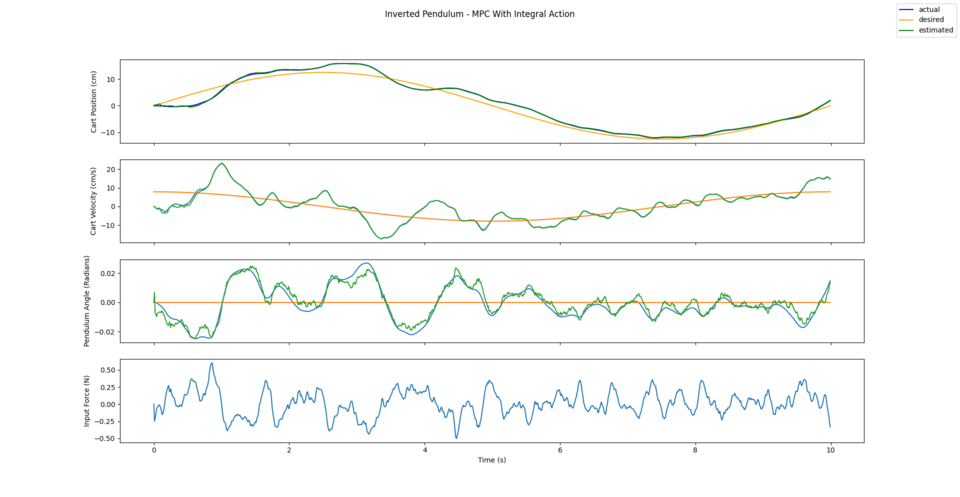
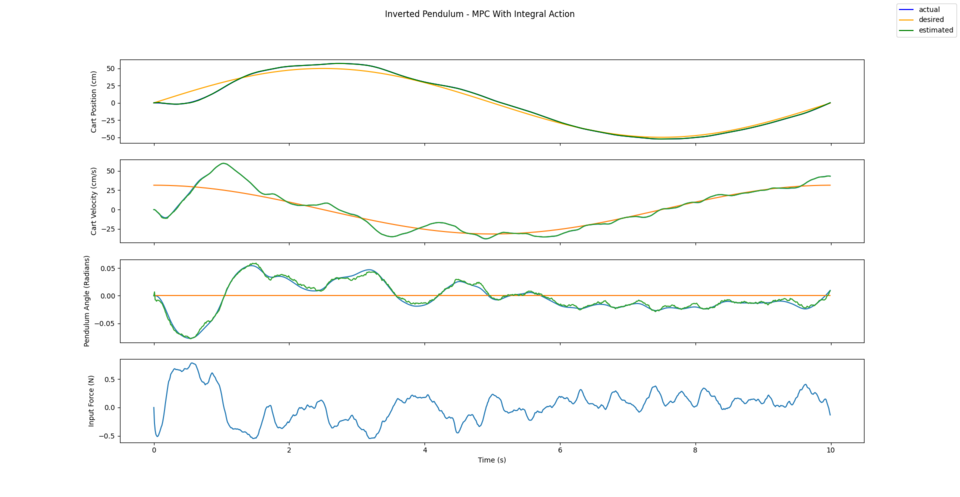
Increase amplitude of reference trajectory in Inverted Pendulum simulation. Also increase weight on input matrix. Update simulation plots.

diff --git a/InvertedPendulumSimulation.py b/InvertedPendulumSimulation.py
@@ -64,7 +64,7 @@ Q[2][2] = 10
 Q[3][3] = 1
 Q[4][4] = 0
 
-R = np.identity(1)
+R = np.identity(1)*10
 
 # initial state covariance estimate for EKF
 P0 = np.identity(4) * 0.1
@@ -84,8 +84,8 @@ u_actual = np.empty((1, sim_length - L))
 
 # generate the trajectory that we want to follow
 for i in range(0, sim_length - L):
-    x_ref[0, i] = .125 * math.sin(math.pi * Ts * i / 5)
-    x_ref[1, i] = .125 * math.pi / 5 * math.cos(math.pi * Ts * i / 5)
+    x_ref[0, i] = 0.5 * math.sin(math.pi * Ts * i / 5)
+    x_ref[1, i] = 0.5 * math.pi / 5 * math.cos(math.pi * Ts * i / 5)
     x_ref[2, i] = 0
     x_ref[3, i] = 0
     x_ref[4, i] = 0
